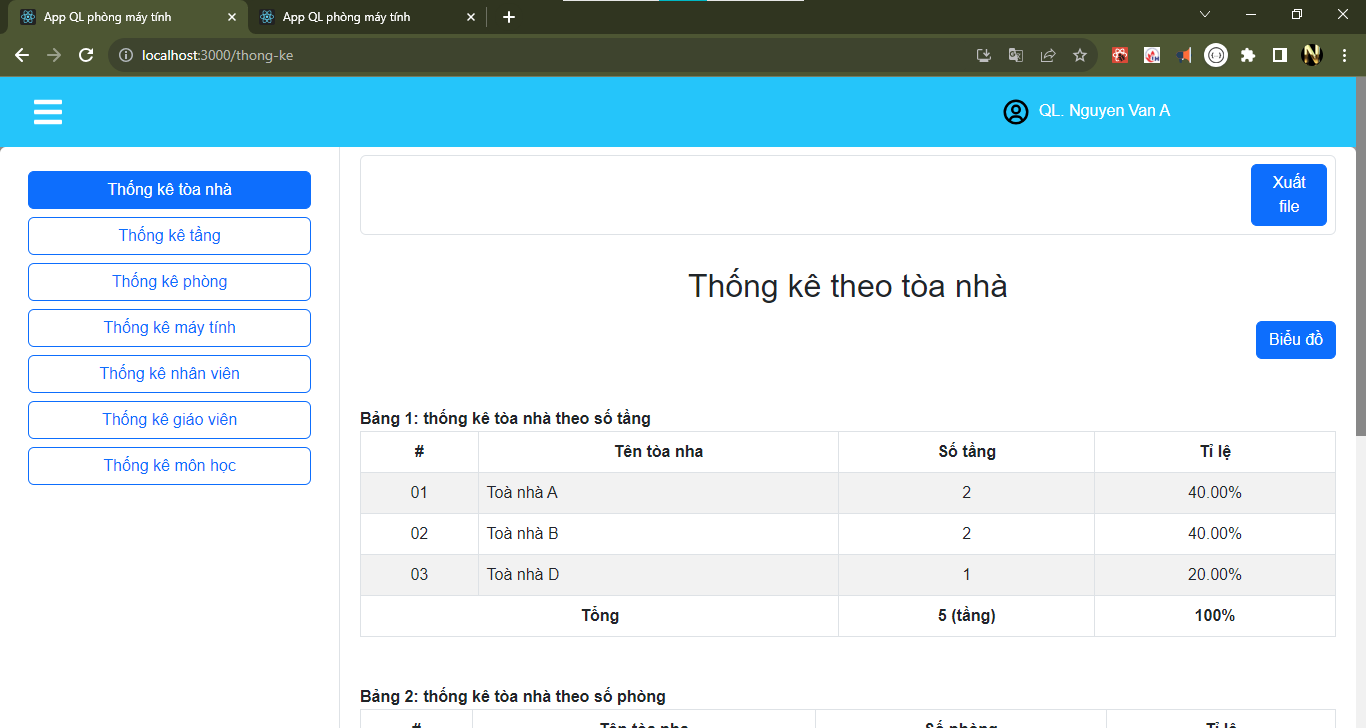
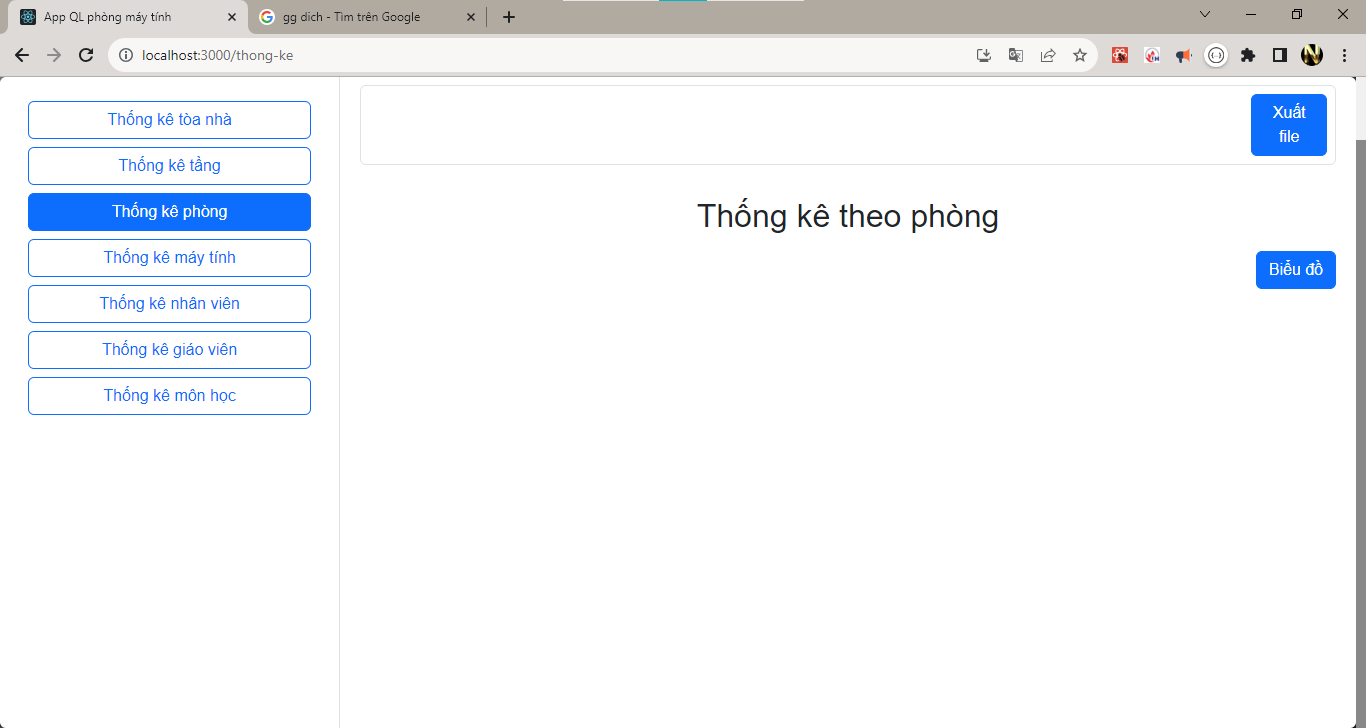
start TK Phong

diff --git a/src/pages/PageThongKe/PageThongKe.jsx b/src/pages/PageThongKe/PageThongKe.jsx
@@ -9,6 +9,9 @@ import ComponentGraphTang from "../../components/layout/ThongKe/ThongKeTang/Comp
 import ComponentTableTang from "../../components/layout/ThongKe/ThongKeTang/Component/ComponentTableTang";
 import HOOK_ThongKe from "../../components/layout/ThongKe/HOOK_ThongKe";
 import { set_tk_TheoTang_arr_Api } from "../../redux/reducers/ThongKe/thongkeTangReducer";
+import ComponentSortPhong from "../../components/layout/ThongKe/ThongKePhongMay/ComponentSortPhong";
+import ComponentGraphPhong from "../../components/layout/ThongKe/ThongKePhongMay/ComponentGraphPhong";
+import ComponentTablePhong from "../../components/layout/ThongKe/ThongKePhongMay/ComponentTablePhong";
 
 export default function PageThongKe() {
   //
@@ -34,7 +37,7 @@ export default function PageThongKe() {
         break;
 
       case "tk_tang":
-        dispatch(set_tk_TheoTang_arr_Api)
+        dispatch(set_tk_TheoTang_arr_Api);
         break;
       case "tk_phong":
         break;
@@ -55,29 +58,37 @@ export default function PageThongKe() {
   };
   // render
   const renderDataThongKe = () => {
-    
     switch (valBtnTK) {
       case "tk_toaNha":
         return <ThongKeToaNha />;
 
-      case "tk_tang":
+      case "tk_tang": {
         let value = {
-          title: 'Thống kê theo Tầng',
+          title: "Thống kê theo tầng",
           ComponentSort: ComponentSortTang,
           ComponentGraph: ComponentGraphTang,
-          ComponentTable: ComponentTableTang
+          ComponentTable: ComponentTableTang,
         };
         return <HOOK_ThongKe data={value} />;
-      case "tk_phong":
-        return <ComponentThongKe />;
+      }
+      case "tk_phong": {
+        let value = {
+          title: "Thống kê theo phòng",
+          ComponentSort: ComponentSortPhong,
+          ComponentGraph: ComponentGraphPhong,
+          ComponentTable: ComponentTablePhong,
+        };
+        return <HOOK_ThongKe data={value} />;
+      }
+
       case "tk_mayTinh":
-        break;
+        return <ComponentThongKe />;
       case "tk_nhanVien":
-        break;
+        return <ComponentThongKe />;
       case "tk_giaoVien":
-        break;
+        return <ComponentThongKe />;
       case "tk_monHoc":
-        break;
+        return <ComponentThongKe />;
 
       default:
         return <ThongKeToaNha />;

diff --git a/src/components/layout/ThongKe/ThongKePhongMay/ComponentTablePhong.jsx b/src/components/layout/ThongKe/ThongKePhongMay/ComponentTablePhong.jsx
@@ -1,0 +1,63 @@
+import React from "react";
+import { useSelector } from "react-redux";
+
+export default function ComponentTablePhong() {
+  // const { tk_TheoTang_arr } = useSelector((state) => state.thongkeTangReducer);
+  //render
+
+  return (
+    <div>
+      {/* {tk_TheoTang_arr?.map((item, index) => {
+        let data = { ...item, index };
+        return <TableTKTang data={data} />;
+      })} */}
+      {/* <TableTKToaNha_TrangThaiMay data={tk_ToaNha_status_mayTinh} /> */}
+    </div>
+  );
+}
+
+//
+const TableTKTang = (props) => {
+  let { index, sum, data_table, text_name, name_title } = props.data;
+
+  return (
+    <div key={index} className="table-responsive-md mt-5 ">
+      <strong>Bảng {name_title} </strong>
+      <table className="table table-striped table-hover table-bordered">
+        <thead>
+          <tr>
+            <th>#</th>
+            <th>Tên tầng</th>
+            <th>Số {text_name}</th>
+            <th>Tỉ lệ</th>
+          </tr>
+        </thead>
+        <tbody>
+          {data_table?.map((item, index1) => {
+            let ti_le = (item.value / sum) * 100;
+            return (
+              <tr key={index1}>
+                <td className="text-center">
+                  {index1 < 9 ? `0${index1 + 1}` : index1 + 1}
+                </td>
+                <td>{item.name}</td>
+                <td className="text-center">{item.value}</td>
+                <td className="text-center">{ti_le.toFixed(2)}%</td>
+              </tr>
+            );
+          })}
+          <tr>
+            <td colSpan={2} className="text-center fw-bold">
+              Tổng
+            </td>
+            <td className="text-center fw-bold">
+              {sum} ({text_name})
+            </td>
+            <td className="text-center fw-bold">100%</td>
+          </tr>
+        </tbody>
+        <tfoot />
+      </table>
+    </div>
+  );
+};

diff --git a/src/components/layout/ThongKe/ThongKePhongMay/ComponentSortPhong.jsx b/src/components/layout/ThongKe/ThongKePhongMay/ComponentSortPhong.jsx
@@ -1,0 +1,34 @@
+import React from "react";
+
+export default function ComponentSortPhong() {
+  return (
+    <>
+      <div className="d-flex bd-highlight border rounded">
+        {/* left */}
+        <div className="p-2 w-100 bd-highlight" style={{ fontSize: "15px" }}>
+          
+          
+          {/* <div className="col-3">
+            <label htmlFor="SelA" className="form-label">
+              City
+            </label>
+            <select className="form-select p-1 py-1" name="SelA" id="SelA">
+              <option selected>Select one</option>
+              <option value>New Delhi</option>
+              <option value>Istanbul</option>
+              <option value>Jakarta</option>
+            </select>
+          </div> */}
+        </div>
+        {/* right */}
+        <div className="p-2 flex-shrink-1 bd-highlight ">
+          <button type="button" onClick={() => {
+            alert('Đang cập nhật! Vui lòng quay lại sau.')
+          }} className="btn btn-primary ">
+            Xuất file
+          </button>
+        </div>
+      </div>
+    </>
+  );
+}

diff --git a/src/components/layout/ThongKe/ThongKePhongMay/ComponentGraphPhong.jsx b/src/components/layout/ThongKe/ThongKePhongMay/ComponentGraphPhong.jsx
@@ -1,0 +1,16 @@
+import React from "react";
+
+export default function ComponentGraphPhong() {
+  return (
+    <div className="mb-5">
+      <div className="d-flex justify-content-around flex-wrap">
+        {/* {renderGraph_ToaNha()} */}
+      </div>
+      <div className="d-flex justify-content-around flex-wrap">
+        {/* <GraphTKToaNhaTheoTrangThai_SimpleBarChart
+          data={tk_ToaNha_status_mayTinh}
+        /> */}
+      </div>
+    </div>
+  );
+}
